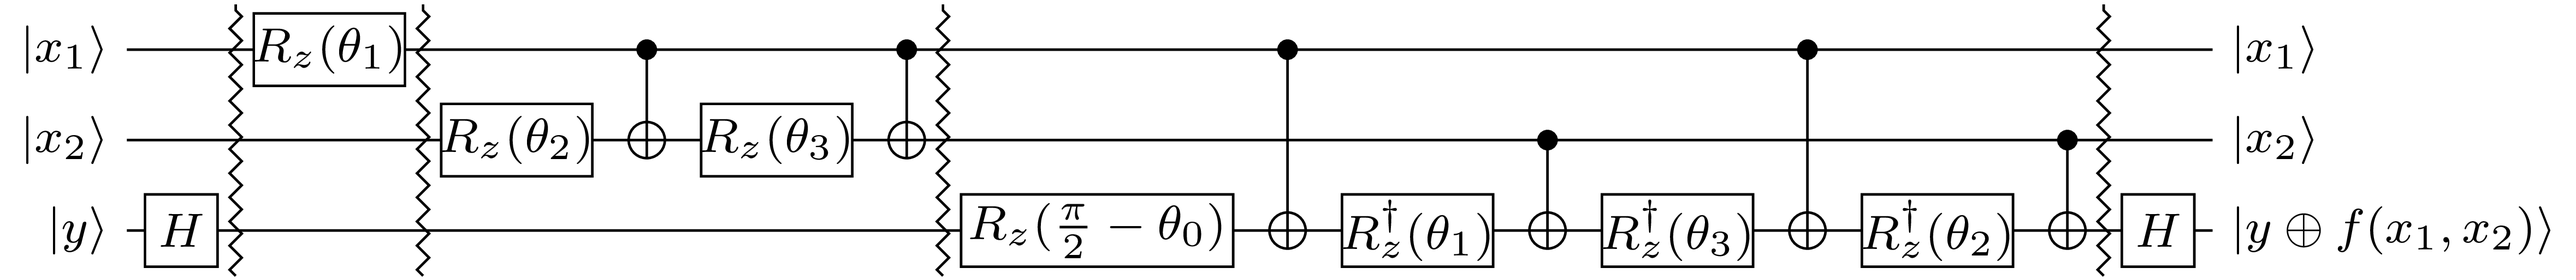
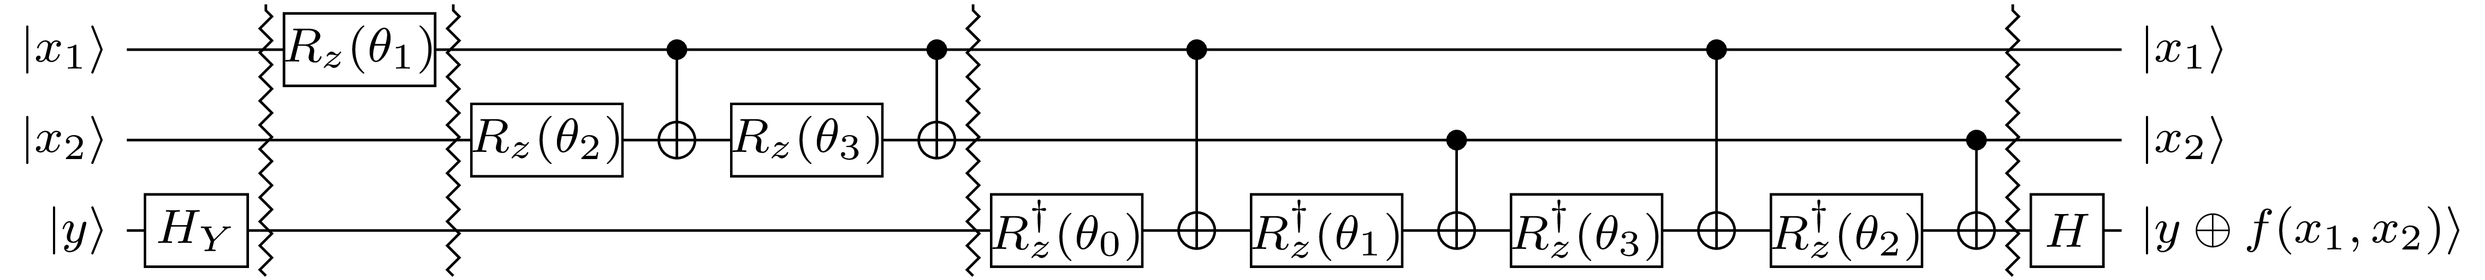
Update.

diff --git a/blog_qac.html b/blog_qac.html
@@ -105,19 +105,26 @@ RevKit
 <p>
 <b>Blog entry by Mathias Soeken from December 19, 2018, written for the</b>
 <a href='https://blogs.msdn.microsoft.com/visualstudio/2018/11/15/q-advent-calendar-2018/' target='_blank'>Q# Advent Calendar</a>
+<br>
+<i aria-hidden='true' class='fa fa-creative-commons'></i>
+licensed under
+<a href='https://creativecommons.org/licenses/by/4.0/' target='_blanl'>CC-BY 4.0</a>
 </p>
 <p>
 Donald E. Knuth introduced the
 <i>Christmas tree pattern</i>
-sixteen years ago in his ninth annual
+sixteen years ago in his
+<a href='https://www.youtube.com/watch?v=zyWe3lcfaYw&amp;index=68&amp;list=PLtbnfr9TpMH2FILSgYZif3eN9sEuJoVNa' target='_blank'>
+ninth annual
 <i>Christmas tree lecture</i>
+</a>
 at Stanford University, and he has made it part of
-Section 7.2.1.6 of his famous multi-volume work
+Section 7.2.1.6 in his famous multi-volume work
 <i>The Art of Computer Programming.</i>
 The recursive definition of the Christmas tree pattern goes as follows.
-The Christmas tree pattern of order \(1\) is a single row \(0 \; 1\).
+The Christmas tree pattern of order \(1\) is a single row &lsquo;\(0 \; 1\)&rsquo;.
 One obtains the Christmas tree pattern of order \(n+1\) by taking each
-row \(\sigma_1\; \sigma_2\; \ldots \sigma_s\) in the pattern of order \(n\)
+row &lsquo;\(\sigma_1\; \sigma_2\; \ldots \sigma_s\)&rsquo; in the pattern of order \(n\)
 and replace it by the following two rows:
 $$ \begin{array}{ccccc} & \sigma_20 & \ldots & \sigma_s0 & \\ \sigma_10 & \sigma_11 & \ldots & \sigma_{s-1}1 & \sigma_s1\end{array}  $$
 The first row is omitted when \(s = 1\).  The Christmas tree pattern of orders \(2\) to \(4\) are:
@@ -144,8 +151,8 @@ $$ \begin{array}{ccc} & & 1010 & & \\ & \color{red}{1000} & 1001 & \color{red}{1
 Knuth describes many interesting properties of this pattern in his book.
 But one of the most apparent ones is that the pattern of order \(n\) contains all \(2^n\) bitstrings
 of length \(n\), grouped into \(n+1\) columns according to the number of \(1\)&rsquo;s in the bitstring.
-For now the Christmas tree pattern is visualized in green, but because it's Christmas, we would like to decorate
-the tree!  We will use the implementation complexity of quantum oracles to decide which decoration to put.
+For now the Christmas tree pattern is visualized in green, but because it's Christmas, we should decorate
+the tree!  In this blog article, I will use the implementation complexity of quantum oracles to decide which decoration to put.
 </p>
 <p>
 The Christmas tree pattern of order \(n\) can be used to visualize all the input combinations of an \(n\)-variable Boolean function.
@@ -155,26 +162,28 @@ For example, the Christmas tree pattern of order \(4\) contains all 16 2-variabl
 </p>
 <h4>Quantum oracles</h4>
 <p>
-In this blog entry, we consider the implementation of
+The central quantum operations in this blog article are
 <a href='https://docs.microsoft.com/en-us/quantum/concepts/oracles?view=qsharp-preview' target='_blank'>quantum oracle funtions</a>
 $$ U_f : |x_1x_2\ldots x_n\rangle|y\rangle \mapsto |x_1x_2\ldots x_n\rangle|y \oplus f(x_1, x_2, \dots, x_n)\rangle $$
-in terms of quantum circuits using the Hadamard gate, CNOT gates, and arbitrary Z-rotation gates.
-There exists a very nice recursive circuit construction, presented by
+implemented in terms of quantum circuits using the Hadamard gate, CNOT gates, and arbitrary Z-rotation gates.
+The following general circuit construction is based on the work by
 <a href='https://arxiv.org/abs/quant-ph/0303063v2' target='_blank'>Schuch and Siewert</a>
 and
 <a href='https://arxiv.org/abs/1306.3991' target='_blank'>Welch et al,</a>
-which we illustrate for a generic 2-variable Boolean oracle \(f(x_1, x_2)\).
+and here illustrated for a generic 2-variable Boolean oracle function \(f(x_1, x_2)\).
 </p>
 <p>
 <center>
-<img border='0' src='images/blog_qac_stg2.png' style='height: 94px'>
+<img border='0' src='images/blog_qac_stg2.png' style='height: 96px'>
 </center>
 </p>
 <p>
 The striking property about this construction is that it can be used to find a circuit for each of the 16 possible functions \(f\),
-by only changing the values for the rotation angles \(\theta_1, \dots, \theta_7\).
+by only changing the values for the rotation angles \(\theta_0, \dots, \theta_3\).
 Before we discuss how to determine these values, I'd like to point out the recursive structure of the construction:
-If we leave out the surrounding Hadamard gates, there are three compartments \(1, 2, 3\), separated by barrier lines, one compartment for each qubit.
+If we leave out the surrounding Hadamard gate \(H\) and
+<a href='https://docs.microsoft.com/en-us/qsharp/api/canon/microsoft.quantum.canon.hy?view=qsharp-preview' target='_blank'>\(Y\)-Hadamard</a>
+gate \(H_Y = SH\), there are three compartments \(1, 2, 3\), separated by barrier lines, one compartment for each qubit.
 Let's for simplicity define \(x_3 = y\).  Then, the CNOT gates in compartment \(i\) prepare all linear functions that include \(x_i\) but do not include a variable
 with a larger index.  All CNOT gates in compartment \(i\) have the target on qubit \(i\) and controls on qubits with a smaller index.
 The first compartment does not need a CNOT gate, since it has \(x_1\) on the first qubit.
@@ -227,7 +236,7 @@ the oracle function.
 For example, if \(f(x_1, x_2) = x_1 \land x_2\), then \(s_0 = s_1 = s_2 = 2\),
 and \(s_3 = -2\), and therefore \(\theta_0 = \theta_1 = \theta_2 = \frac{\pi}{4}\)
 and \(\theta_3 = -\frac{\pi}{4}\), hence,
-resulting in the well-known circuit construction with 4 \(T\) gates and 3 \(T^\dagger\) gates.
+resulting in the well-known circuit construction with 7 \(T\) and \(T^\dagger\) gates.
 </p>
 <h4>Implementation in Q#</h4>
 <p>
@@ -242,7 +251,7 @@ The
 <code>Extend</code>
 method extends the spectral coefficients by their inverses as described in the example above.
 </p>
-<pre><code class='qsharp'>// First in tuple is value in GrayCode sequence&#x000A;// Second in tuple is position to change in current value to get next one&#x000A;//   Ex: GrayCode(2) = [(0, 0);(1, 1);(3, 0);(2, 1)]&#x000A;function GrayCode(n : Int) : (Int, Int)[] {&#x000A;  // ...&#x000A;}&#x000A;&#x000A;operation Oracle(func : Int, controls : Qubit[], target : Qubit) : Unit {&#x000A;  let vars = Length(controls);&#x000A;  let table = Encode(TruthTable(func, vars));&#x000A;  let spectrum = Extend(FastHadamardTransform(table));&#x000A;&#x000A;  let qubits = controls + [target];&#x000A;&#x000A;  H(target);&#x000A;&#x000A;  for (i in 0..vars) {&#x000A;    let start = 1 <<< i;&#x000A;    let code = GrayCode(i);&#x000A;    for (j in 0..Length(code) - 1) {&#x000A;      let (offset, ctrl) = code[j];&#x000A;      RFrac(PauliZ, spectrum[start + offset], vars + 2, qubits[i]);&#x000A;      if (i != 0) {&#x000A;        CNOT(qubits[ctrl], qubits[i]);&#x000A;      }&#x000A;    }&#x000A;  }&#x000A;&#x000A;  H(target);&#x000A;}&#x000A;</code></pre>
+<pre><code class='qsharp'>// First in tuple is value in GrayCode sequence&#x000A;// Second in tuple is position to change in current value to get next one&#x000A;//   Ex: GrayCode(2) = [(0, 0);(1, 1);(3, 0);(2, 1)]&#x000A;function GrayCode(n : Int) : (Int, Int)[] {&#x000A;  // ...&#x000A;}&#x000A;&#x000A;operation Oracle(func : Int, controls : Qubit[], target : Qubit) : Unit {&#x000A;  let vars = Length(controls);&#x000A;  let table = Encode(TruthTable(func, vars));&#x000A;  let spectrum = Extend(FastHadamardTransform(table));&#x000A;&#x000A;  let qubits = controls + [target];&#x000A;&#x000A;  HY(target);&#x000A;&#x000A;  for (i in 0..vars) {&#x000A;    let start = 1 <<< i;&#x000A;    let code = GrayCode(i);&#x000A;    for (j in 0..Length(code) - 1) {&#x000A;      let (offset, ctrl) = code[j];&#x000A;      RFrac(PauliZ, -spectrum[start + offset], vars + 2, qubits[i]);&#x000A;      if (i != 0) {&#x000A;        CNOT(qubits[ctrl], qubits[i]);&#x000A;      }&#x000A;    }&#x000A;  }&#x000A;&#x000A;  H(target);&#x000A;}&#x000A;</code></pre>
 <h4>Coloring the Christmas Tree</h4>
 <p>
 Let's apply the above oracle synthesis to all 3-input Boolean functions.

diff --git a/js/qsharp_highlight.js b/js/qsharp_highlight.js
@@ -3,7 +3,7 @@ hljs.registerLanguage("qsharp", function(hljs) {
       keywords: {
           keyword: 'operation function let using for if in',
           type: 'Int Qubit Bool Unit',
-          built_in: 'H RFrac CNOT PauliZ'
+          built_in: 'H HY RFrac CNOT PauliZ'
       },
       contains: [
           hljs.C_LINE_COMMENT_MODE,
